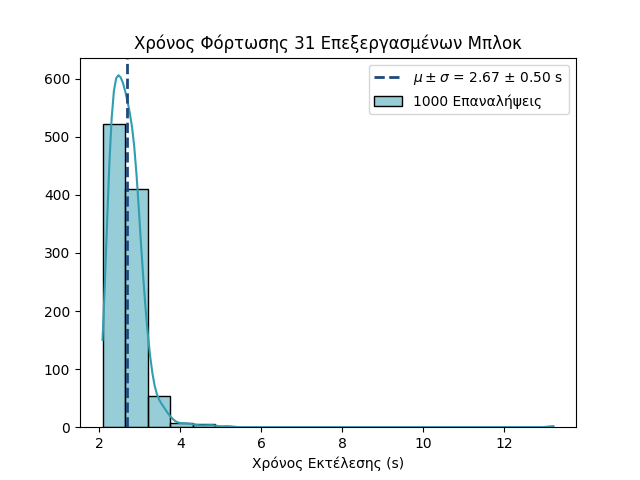
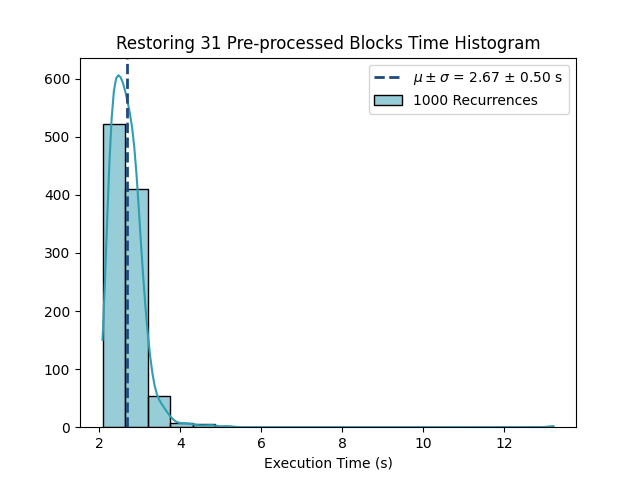
plots in english

Changed region(s): [[0.1875, 0.0625, 0.8438, 0.125], [0.4062, 0.9375, 0.625, 1.0], [0.5938, 0.1875, 0.8438, 0.25]]

diff --git a/tests/graphs/histogram.py b/tests/graphs/histogram.py
@@ -22,7 +22,7 @@ def preprocess_hist(lang='gr'):
     samples = len(preprocessing_run)
     x_label = 'Χρόνος Εκτέλεσης (s)' if lang == 'gr' else 'Execution Time (s)'
     title = f'Χρόνος Eπεξεργασίας 31 Μπλοκ' if lang == 'gr' \
-        else f'<Processing 31 Blocks Time Histogram'
+        else f'Preprocessing 31 Blocks Time Histogram'
     l = f'{samples} Επαναλήψεις' if lang == 'gr' else f'{samples} Recurrences'
     path = '../../plots/preprocessing_hist.png'
     plot_histogram(preprocessing_run, title=title, x=x_label, l=l, path=path)
@@ -32,12 +32,12 @@ def restore_hist(lang='gr'):
     samples = len(restoring_run)
     x_label = 'Χρόνος Εκτέλεσης (s)' if lang == 'gr' else 'Execution Time (s)'
     title = f'Χρόνος Φόρτωσης 31 Επεξεργασμένων Μπλοκ' if lang == 'gr' \
-        else f'<Restoring 31 Pre-processed Blocks Time Histogram'
+        else f'Restoring 31 Pre-processed Blocks Time Histogram'
     l = f'{samples} Επαναλήψεις' if lang == 'gr' else f'{samples} Recurrences'
     path = '../../plots/restoring_hist.png'
     plot_histogram(restoring_run, title=title, x=x_label, l=l, path=path)
 
 
 if __name__ == '__main__':
-    preprocess_hist()
-    restore_hist()
+    preprocess_hist(lang='eng')
+    restore_hist(lang='eng')

diff --git a/tests/graphs/error_box.py b/tests/graphs/error_box.py
@@ -74,7 +74,7 @@ def merging_boxplot(lang='gr'):
     labels = ['Συμβολοσειρά', 'Περιστροφή', 'Απομάκρυνση', 'Τυχαία', 'Εξαντλητική'] if lang == 'gr' \
         else ['String', 'Rotation', 'Reverse Embedding', 'Random', 'Exhaustive']
     title = f'Θηκόγραμμα Ομοιότητας Αποτελέσματος-Προδιαγραφής' if lang == 'gr'\
-        else f'Query-Result Similarity Boxplot'
+        else f'Query-Result Similarity per Synthesis Method'
     xlabel ='Μέθοδοι Σύνθεσης' if lang == 'gr' else f'Synthesis Methods'
     ylabel = 'Συνημιτονική Ομοιότητα' if lang == 'gr' else 'Cosine Similarity'
     path = f'../../plots/merging_box.png'
@@ -82,6 +82,6 @@ def merging_boxplot(lang='gr'):
 
 
 if __name__ == '__main__':
-    merging_boxplot()
-    preprocessing_errorbar()
-    retrieving_boxplot()
+    merging_boxplot(lang='eng')
+    preprocessing_errorbar(lang='eng')
+    retrieving_boxplot(lang='eng')

diff --git a/mosaic/core/embeddings.py b/mosaic/core/embeddings.py
@@ -37,10 +37,11 @@ def variance(batch):
     return torch.mean(var_per_dim)
 
 
-def plot_sim(sim_mat, path='../plots/similarity_matrix.png'):
+def plot_sim(sim_mat, path='../plots/similarity_matrix.png', lang='gr'):
     plt.figure()
     plt.imshow(sim_mat, cmap='cividis', interpolation='nearest')
-    plt.colorbar(label='Ομοιότητα')
+    label = 'Ομοιότητα' if lang == 'gr' else 'Similarity'
+    plt.colorbar(label=label)
     plt.axis('off')
 
     # Annotate the matrix with similarity values - ONLY for small dimensions due to visibility
@@ -50,7 +51,6 @@ def plot_sim(sim_mat, path='../plots/similarity_matrix.png'):
                 plt.text(j, i, f"{sim_mat[i, j]:.2f}",
                          ha="center", va="center", color="black")
 
-    #plt.title("Similarity Matrix")
     plt.tight_layout()
     plt.savefig(path)
     plt.close()

diff --git a/tests/restoring.py b/tests/restoring.py
@@ -28,7 +28,7 @@ def runtime(A=1000, verbose=True):
 def integration():
     model, db = restore()
     print(f'Loaded {model.name} model and BlockDB with {db.num_docs()} docs and {db.features} features')
-    plot_sim(norm_cos_sim(db.embeddings()), path='./plots/similarity_matrix.png')
+    plot_sim(norm_cos_sim(db.embeddings()), path='./plots/similarity_matrix.png', lang='eng')
 
 
 if __name__ == '__main__':
